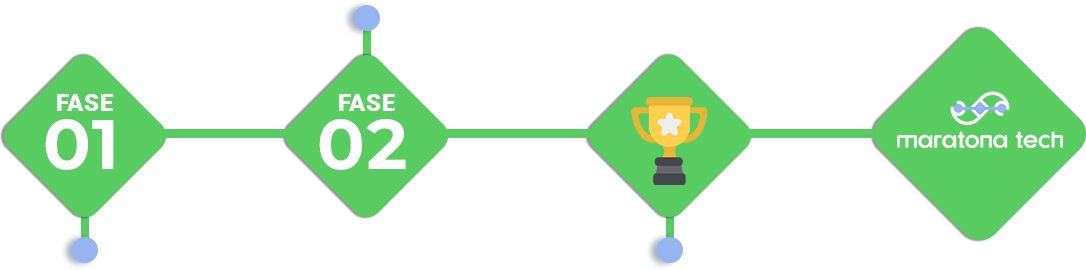
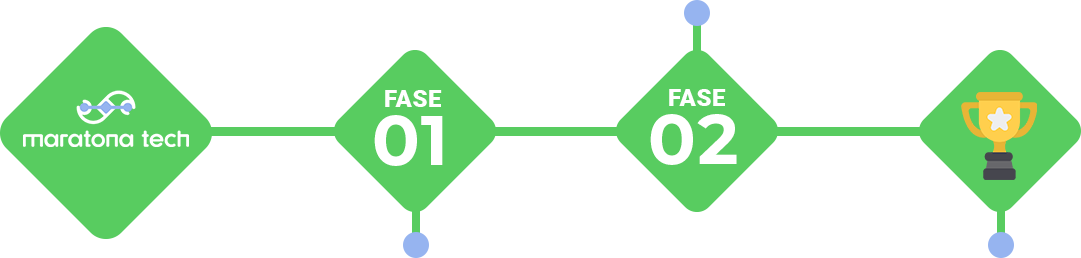
adjusts schedule

Changed region(s): [[0.0, 0.0, 1.0, 1.0]]

diff --git a/css/styles.css b/css/styles.css
@@ -8,7 +8,7 @@
 // deploy > v.00bond a wizardfly
 // wizrdfly.rf.gd
 // #wf-202202221918
-// #wf-202203111135
+// #wf-202203141425
 // - - - - - - - - - - - - - - - - - - - - - - -
 */
 /* -- fonts -- */
@@ -864,14 +864,14 @@ font-family: 'Roboto', sans-serif;
         position: relative;
         padding: 50px 0;
         width: 100%;
-        max-width: 799px;
+        max-width: 800px;
         margin: 30px auto 0;
     }
 
     .section.schedule .box p {
         color: #FFFFFF;
         text-align: left;
-        font-size: 15px;
+        font-size: 14px;
         line-height: 15px;
         display: block;
         font-weight: normal;
@@ -883,13 +883,15 @@ font-family: 'Roboto', sans-serif;
     .section.schedule .box p strong {
         color: #efc062;
         display: block;
-        font-size: 24px;
-        line-height: 24px;
+        font-size: 21px;
+        line-height: 21px;
+        margin: 0 0 3px;
     }
 
     .section.schedule .box p.info01 {
-        top: -2%;
-        left: 0;
+        top: 3%;
+        left: 15%;
+        width: 215px;
     }
 
     .section.schedule .box p.info01 strong {
@@ -897,23 +899,22 @@ font-family: 'Roboto', sans-serif;
     }
 
     .section.schedule .box p.info02 {
-        top: 73%;
-        left: 18%;
+        top: 75%;
+        left: 41%;
     }
 
     .section.schedule .box p.info03 {
-        top: -3%;
-        left: 39%;
+        top: 3%;
+        left: 68%;
     }
 
     .section.schedule .box p.info04 {
-        top: 73%;
-        left: 62%;
+        top: 75%;
+        left: 80%;
     }
 
     .section.schedule .box img {
         width: 100%;
-        max-width: 660px;
         display: block;
         margin: 0 auto;
     }
@@ -1468,6 +1469,18 @@ font-family: 'Roboto', sans-serif;
 
     .section.header .brand img {
         height: 45px;
+    }
+}
+
+@media screen and (max-width: 760px) {
+    .section.schedule .box p.info02 {
+        top: 75%;
+        left: 16%;
+    }
+
+    .section.schedule .box p.info04 {
+        top: 75%;
+        left: 73%;
     }
 }
 

diff --git a/index.html b/index.html
@@ -8,7 +8,7 @@
 // deploy > v.00bond a wizardfly
 // wizrdfly.rf.gd
 // #wf-202202221918
-// #wf-202203111135
+// #wf-202203141425
 // - - - - - - - - - - - - - - - - - - - - - - -
 -->
 <!DOCTYPE html>
@@ -318,32 +318,32 @@
 			<div class="box">
 				<p class="info01">
 					<strong>
-						01/03/22 a 30/04/22
+						01/03/22 a 22/04/22
 					</strong>
 					Um(a) professor(a) responsável inscreve a escola.
 				</p>
-				<img src="img/icoScheduleMobStep01.png" alt="Cronograma" class="scheduleMob"/>
+				<img src="img/icoScheduleMobStep04.png" alt="Cronograma" class="scheduleMob"/>
 				<p class="info02">
 					<strong>
 						02/05 a 30/06
 					</strong>
 					Todos os alunos inscritos participam e competem entre si. São escolhidos os estudantes representantes da escola para a Fase 2.
 				</p>
-				<img src="img/icoScheduleMobStep02.png" alt="Cronograma" class="scheduleMob"/>
+				<img src="img/icoScheduleMobStep01.png" alt="Cronograma" class="scheduleMob"/>
 				<p class="info03">
 					<strong>
 						08/08 a 30/09
 					</strong>
 					Os estudantes realizam uma jornada de aprendizagem, totalmente remota, com avaliação formativa.
 				</p>
-				<img src="img/icoScheduleMobStep03.png" alt="Cronograma" class="scheduleMob"/>
+				<img src="img/icoScheduleMobStep02.png" alt="Cronograma" class="scheduleMob"/>
 				<p class="info04">
 					<strong>
 						20/10
 					</strong>
-					Estudantes destaques são premiados e reconhecidos com medalhas, bolsas e mentorias. Professores também serão reconhecidos.
+					Estudantes destaques premiados e reconhecidos com medalhas, bolsas e mentorias. Professores também serão reconhecidos.
 				</p>
-				<img src="img/icoScheduleMobStep04.png" alt="Cronograma" class="scheduleMob"/>
+				<img src="img/icoScheduleMobStep03.png" alt="Cronograma" class="scheduleMob"/>
 				<img src="img/icoSchedule.png" alt="Cronograma"/>
 			</div>
 		</div>
